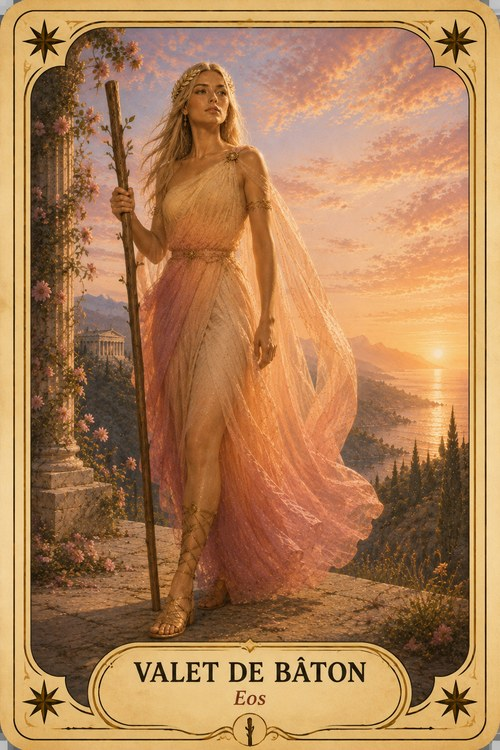
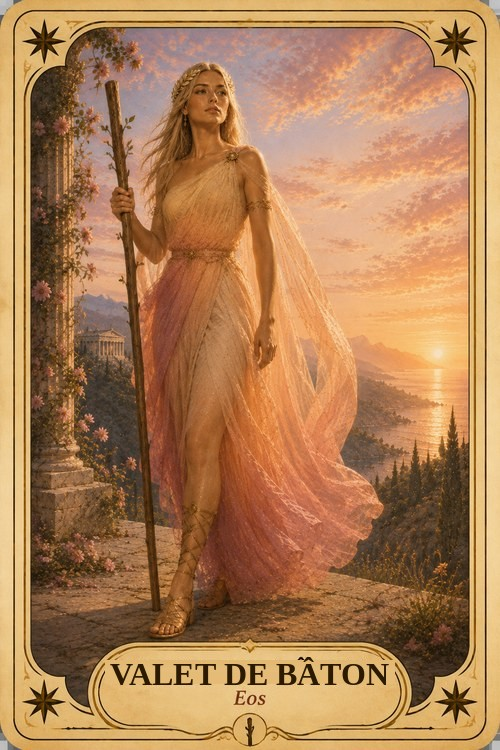
Corrige l'accent circonflexe manquant sur le Valet de Bâtons
"VALET DE BATON" devient "VALET DE BÂTON" — seule carte des 78 à
avoir cette coquille (trouvée lors de la vérification de cohérence
du tour précédent). Même technique que les corrections Deniers/Épées
précédentes : texte effacé et redessiné en place (police/couleur/
mise en page assorties), sans régénérer toute l'image.

Aucun changement de nom de fichier ni de code.

service-worker.js : cache delphes-v99 -> delphes-v100.

Claude-Session: https://claude.ai/code/session_01U3aLcH1JucbLstxQ1Hhqve

Changed region(s): [[0.21, 0.8587, 0.78, 0.92]]

diff --git a/service-worker.js b/service-worker.js
@@ -1,4 +1,4 @@
-const CACHE="delphes-v99";
+const CACHE="delphes-v100";
 const ASSETS=["./","./index.html","./styles.css","./app.js","./manifest.json","./icon.svg","./politique-confidentialite.html"];
 
 self.addEventListener("install",event=>{
